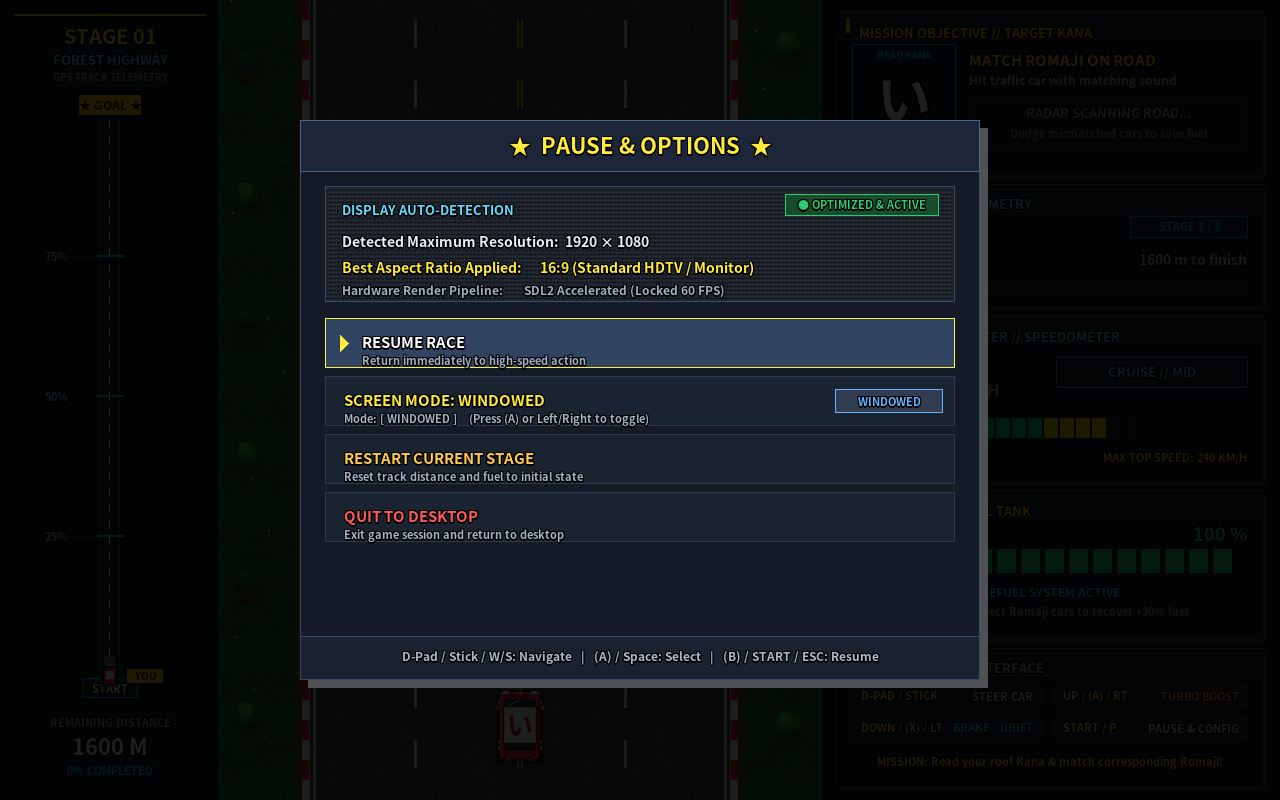
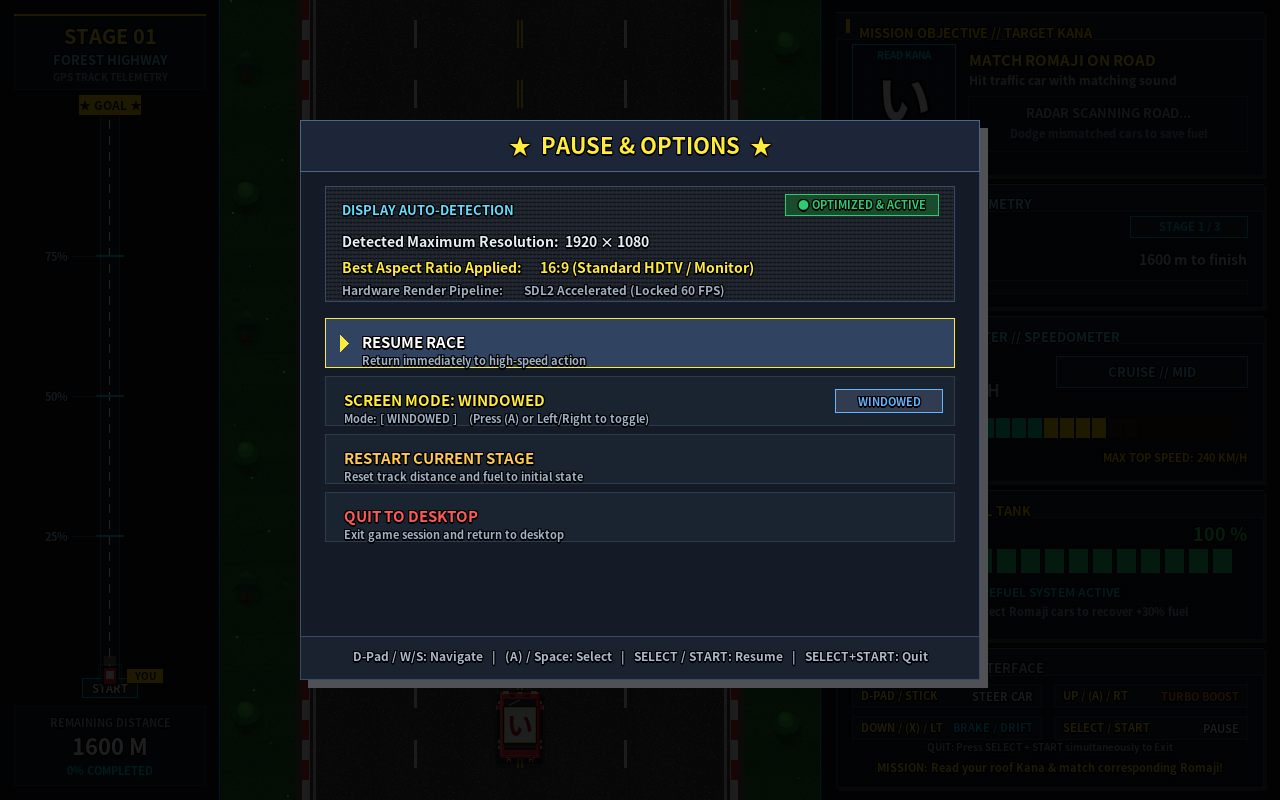
Update screenshots with Stage 3 Coastal Beach and new button bindings

Changed region(s): [[0.2812, 0.8125, 0.7188, 0.8438], [0.6875, 0.9375, 0.9375, 0.9688]]

diff --git a/README.md b/README.md
@@ -46,9 +46,9 @@ chmod +x Hiragana_Road_Fighter-x86_64.AppImage
 | :---: | :---: |
 | ![Stage 1](screenshots/hud_stage1.png) | ![Stage 2](screenshots/hud_stage2.png) |
 
-| Display Auto-Detection & Pause Menu |
-| :---: |
-| ![Pause Menu](screenshots/hud_pause.png) |
+| Stage 3: Coastal Beach | Display Auto-Detection & Pause Menu |
+| :---: | :---: |
+| ![Stage 3](screenshots/hud_stage3.png) | ![Pause Menu](screenshots/hud_pause.png) |
 
 ---
 
